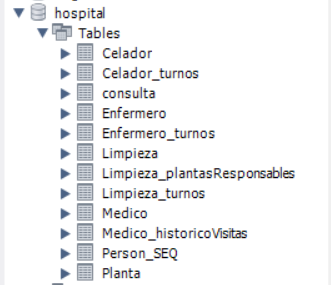
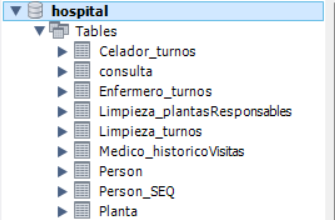
finish single_table strategy

diff --git a/src/main/java/model/Person.java b/src/main/java/model/Person.java
@@ -3,7 +3,8 @@ package model;
 import jakarta.persistence.*;
 
 @Entity
-@Inheritance(strategy = InheritanceType.TABLE_PER_CLASS)
+@Inheritance(strategy = InheritanceType.SINGLE_TABLE)  // Cambiar a SINGLE_TABLE
+@DiscriminatorColumn(name = "tipo_persona", discriminatorType = DiscriminatorType.STRING)  // Columna que define el tipo de persona
 public abstract class Person {
 
     @Id
